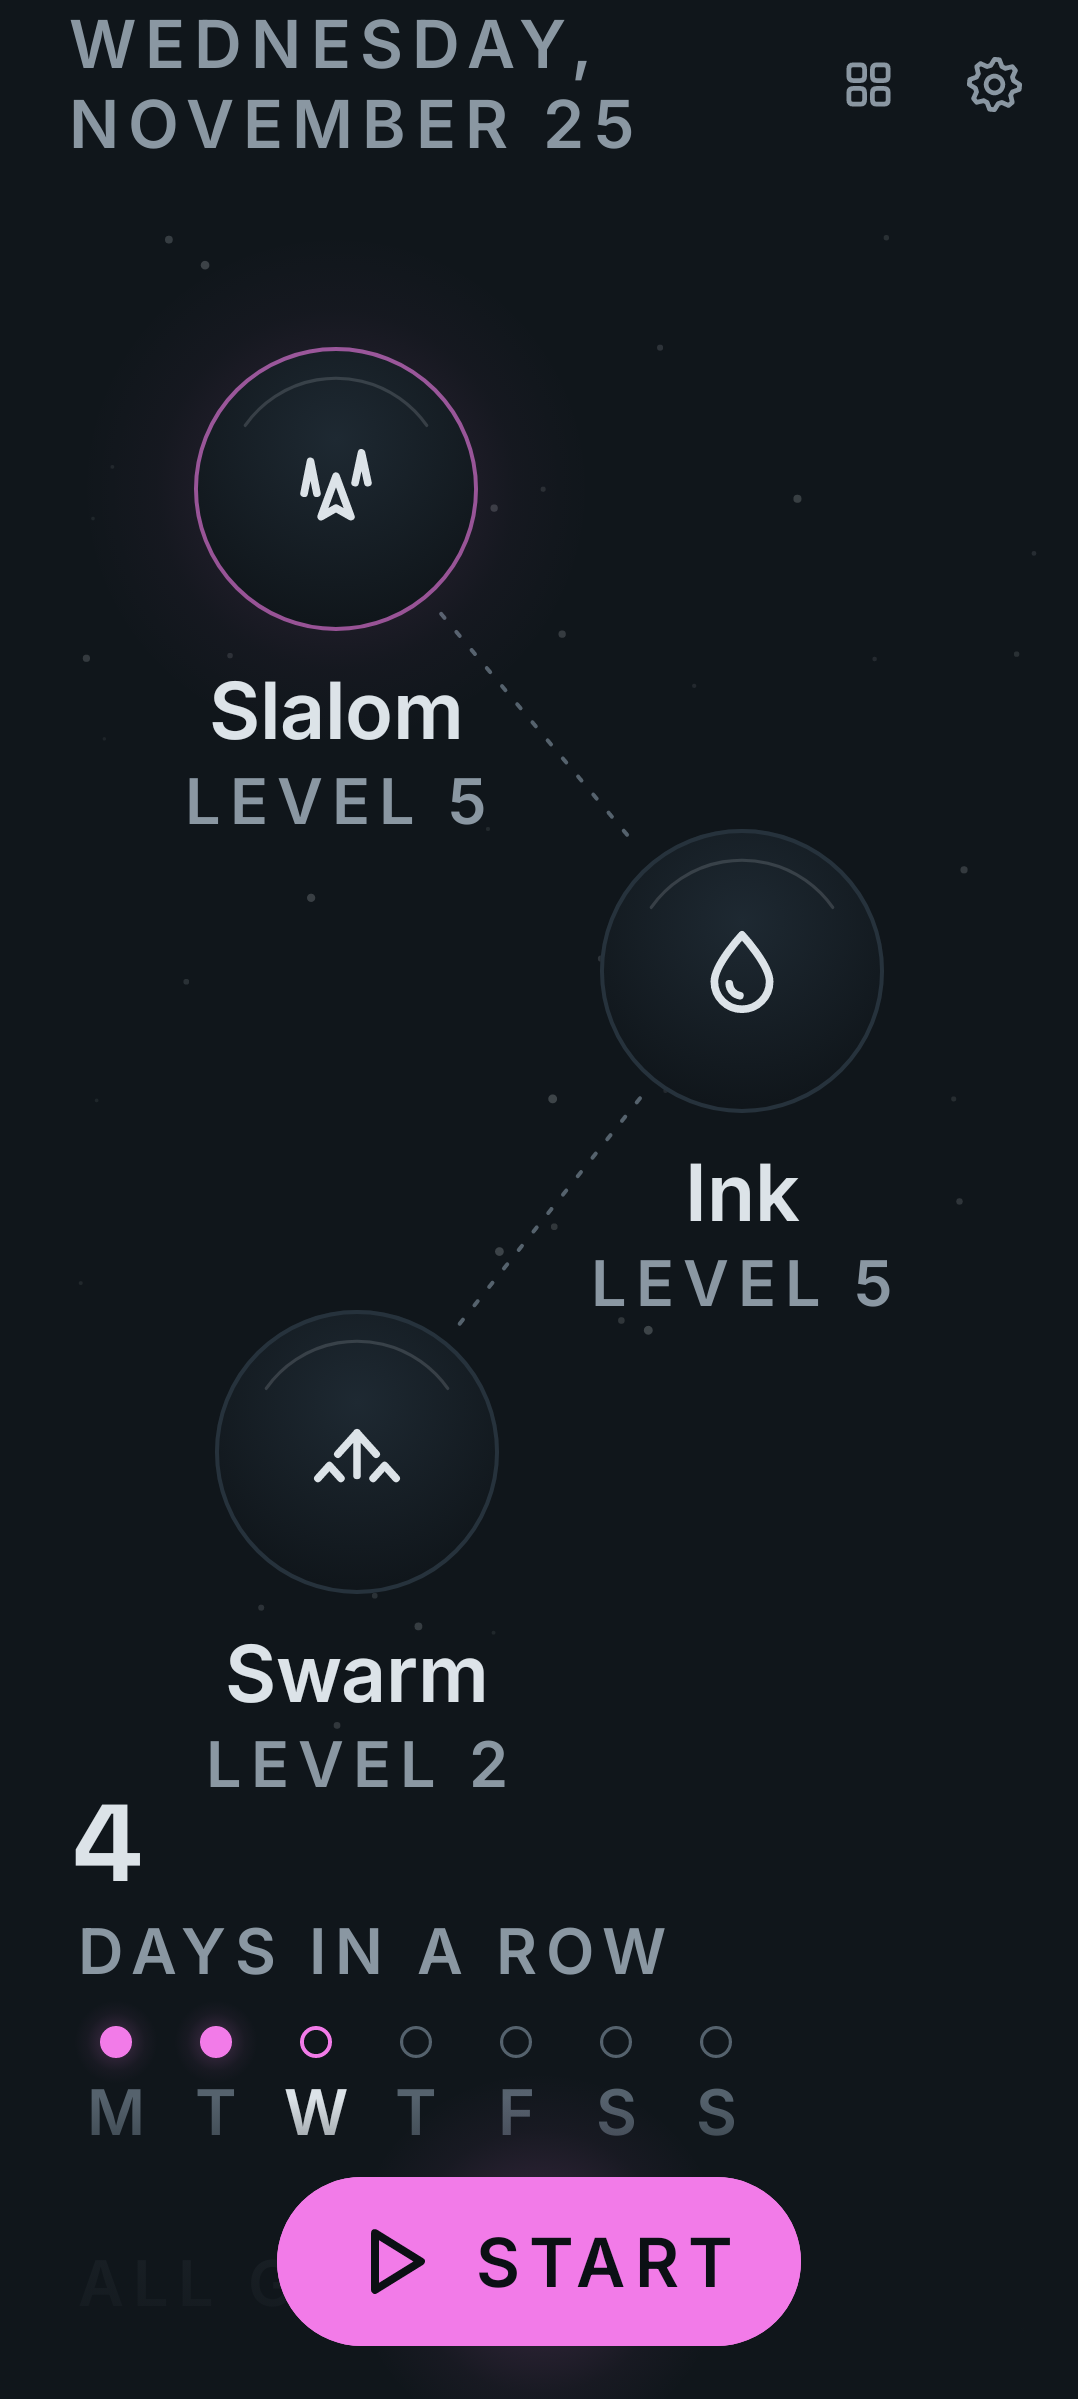
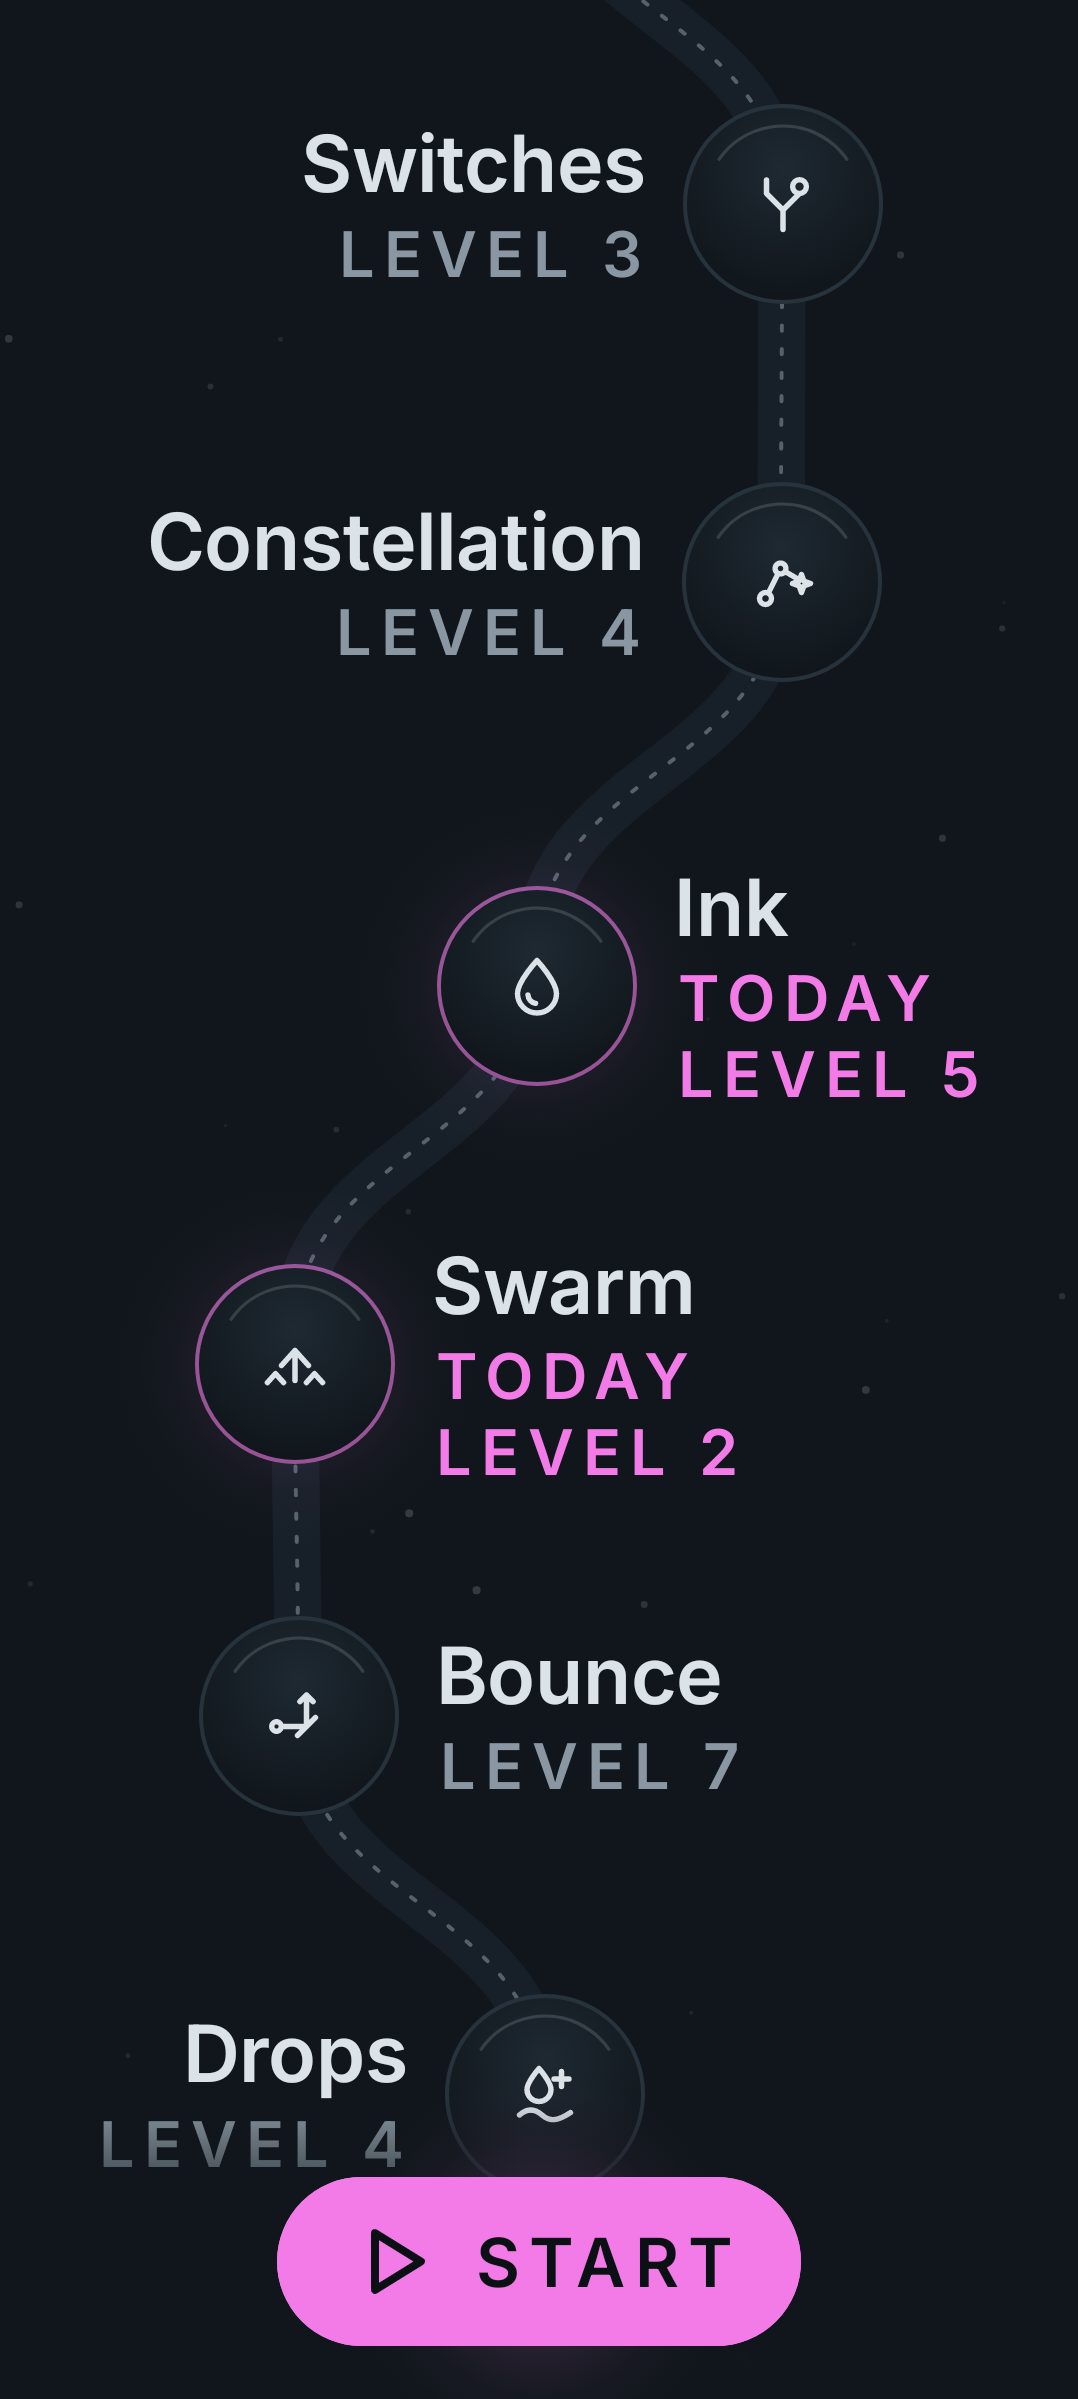
thinkr: Home nur Lernpfad, Heute-Kreise entfernt

diff --git a/apps/thinkr/src/main/kotlin/solutions/xapient/thinkr/ui/HomeScreen.kt b/apps/thinkr/src/main/kotlin/solutions/xapient/thinkr/ui/HomeScreen.kt
@@ -21,17 +21,21 @@ import androidx.compose.foundation.layout.padding
 import androidx.compose.foundation.layout.size
 import androidx.compose.foundation.layout.width
 import androidx.compose.foundation.layout.widthIn
-import androidx.compose.foundation.ScrollState
 import androidx.compose.foundation.rememberScrollState
 import androidx.compose.foundation.verticalScroll
 import androidx.compose.foundation.shape.CircleShape
 import androidx.compose.foundation.text.BasicText
 import androidx.compose.runtime.Composable
+import androidx.compose.runtime.LaunchedEffect
 import androidx.compose.runtime.getValue
+import androidx.compose.runtime.mutableStateOf
+import androidx.compose.runtime.setValue
 import androidx.compose.runtime.remember
 import androidx.compose.ui.Alignment
 import androidx.compose.ui.Modifier
 import androidx.compose.ui.geometry.Offset
+import androidx.compose.ui.layout.onPlaced
+import androidx.compose.ui.layout.positionInParent
 import androidx.compose.ui.graphics.Brush
 import androidx.compose.ui.graphics.Path
 import androidx.compose.ui.graphics.PathEffect
@@ -50,9 +54,7 @@ import androidx.compose.ui.text.rememberTextMeasurer
 import androidx.compose.ui.text.style.TextAlign
 import androidx.compose.ui.text.style.TextOverflow
 import androidx.compose.ui.unit.Dp
-import androidx.compose.ui.unit.IntOffset
 import androidx.compose.ui.unit.dp
-import androidx.compose.ui.unit.min
 import androidx.compose.ui.unit.sp
 import solutions.xapient.aapps.core.ui.Aapps
 import solutions.xapient.aapps.core.ui.AappsIcon
@@ -71,13 +73,10 @@ import java.time.format.TextStyle
 import kotlin.math.sin
 import kotlin.random.Random
 
-data class DailyItem(val id: GameId, val name: String, val icon: ImageVector, val level: Int, val done: Boolean)
-
-// Heute: Tagesbild als Hero, darunter Serie und Woche, beim Scrollen alle Spiele als Pfad; unten die eine Hauptaktion
+// Start: Kopf mit Datum, Serie und Woche, darunter alle Spiele als Lernpfad; oeffnet bei der naechsten Einheit von heute
 @Composable
 fun HomeScreen(
     today: Int,
-    items: List<DailyItem>,
     games: List<GameItem>,
     streak: Int,
     week: List<Boolean>,
@@ -85,18 +84,17 @@ fun HomeScreen(
     onPlay: (GameId) -> Unit,
     onGames: () -> Unit,
     onSettings: () -> Unit,
-    scroll: ScrollState = rememberScrollState(),
 ) {
     val c = Aapps.colors
-    val next = items.firstOrNull { !it.done }
-    val allDone = items.isNotEmpty() && next == null
+    val next = games.firstOrNull { it.daily && !it.doneToday }
+    val allDone = games.any { it.daily } && next == null
     val landscape = LocalWindowInfo.current.containerSize.let { it.width > it.height }
     val action: @Composable () -> Unit = {
         AappsPillButton(
             stringResource(
                 when {
                     allDone -> R.string.done_today
-                    items.any { it.done } -> R.string.go_on
+                    games.any { it.doneToday } -> R.string.go_on
                     else -> R.string.start
                 },
             ),
@@ -108,9 +106,21 @@ fun HomeScreen(
         )
     }
     val play: (GameId) -> Unit = { haptics?.press(); onPlay(it) }
+    // beim Oeffnen zur naechsten offenen (sonst ersten) Einheit von heute scrollen
+    val scroll = rememberScrollState()
+    val focus = games.indexOf(next ?: games.firstOrNull { it.daily })
+    var pathTop by remember { mutableStateOf<Float?>(null) }
+    val fs = LocalDensity.current.fontScale.coerceIn(1f, 2f)
+    val density = LocalDensity.current
     AappsScaffold {
         BoxWithConstraints(Modifier.fillMaxSize()) {
             val viewH = maxHeight
+            LaunchedEffect(pathTop) {
+                val top = pathTop ?: return@LaunchedEffect
+                if (focus < 0) return@LaunchedEffect
+                scroll.scrollTo(with(density) { (top + (pathNodeY(focus, fs) - viewH * 0.4f).toPx()).toInt().coerceAtLeast(0) })
+            }
+            val path = Modifier.onPlaced { pathTop = it.positionInParent().y }
             if (landscape) {
                 Row(Modifier.fillMaxSize()) {
                     Column(Modifier.weight(0.42f).fillMaxHeight().padding(start = 12.dp, bottom = 16.dp)) {
@@ -121,22 +131,15 @@ fun HomeScreen(
                         Box(Modifier.padding(start = 8.dp)) { action() }
                     }
                     Column(Modifier.weight(0.58f).fillMaxHeight().verticalScroll(scroll)) {
-                        // Pfadtitel lugt unten hervor: zeigt, dass es weitergeht
-                        Constellation(items, next?.id, play, Modifier.fillMaxWidth().height(viewH - 44.dp).padding(12.dp))
-                        PathTitle()
-                        GamePath(games, play, Modifier.padding(bottom = 24.dp))
+                        GamePath(games, play, path.padding(bottom = 24.dp))
                     }
                 }
             } else {
-                // Hero wie bisher, nur so viel kuerzer, dass der Pfad ueber der Pille hervorlugt
-                val heroH = (viewH - 64.dp - 76.dp - 98.dp - 64.dp).coerceAtLeast(300.dp)
                 Column(Modifier.fillMaxSize().verticalScroll(scroll)) {
                     Box(Modifier.padding(start = 12.dp)) { Header(today, onGames, onSettings) }
-                    Constellation(items, next?.id, play, Modifier.fillMaxWidth().height(heroH).padding(horizontal = 12.dp))
+                    Spacer(Modifier.height(12.dp))
                     StreakRow(streak, week, today, Modifier.padding(horizontal = 28.dp))
-                    Spacer(Modifier.height(36.dp))
-                    PathTitle()
-                    GamePath(games, play, Modifier.padding(bottom = 112.dp))
+                    GamePath(games, play, path.padding(bottom = 112.dp))
                 }
                 // Pille schwebt ueber dem Pfad, weicher Uebergang statt harter Kante
                 Box(
@@ -168,105 +171,6 @@ private fun Header(today: Int, onGames: () -> Unit, onSettings: () -> Unit) {
         )
         AappsIconButton(ThinkrIcons.Games, stringResource(R.string.games), onGames)
         AappsIconButton(AappsIcons.Gear, stringResource(solutions.xapient.aapps.core.ui.R.string.aapps_settings), onSettings)
-    }
-}
-
-// Lage der Kugeln im Hero, normiert; Hochformat im Zickzack, Querformat als flacher Bogen
-private fun spots(n: Int, wide: Boolean): List<Offset> = when (n) {
-    0 -> emptyList()
-    1 -> listOf(Offset(0.5f, 0.47f))
-    2 -> if (wide) listOf(Offset(0.3f, 0.42f), Offset(0.7f, 0.58f)) else listOf(Offset(0.33f, 0.3f), Offset(0.67f, 0.7f))
-    else -> if (wide) {
-        listOf(Offset(0.18f, 0.36f), Offset(0.5f, 0.64f), Offset(0.82f, 0.38f))
-    } else {
-        listOf(Offset(0.3f, 0.2f), Offset(0.7f, 0.5f), Offset(0.32f, 0.8f))
-    }
-}
-
-// Tagesbild: Spiele als Lichtkugeln, verbunden zu einem kleinen Sternbild
-@Composable
-private fun Constellation(items: List<DailyItem>, next: GameId?, onPlay: (GameId) -> Unit, modifier: Modifier) {
-    val c = Aapps.colors
-    BoxWithConstraints(modifier) {
-        val wide = maxWidth > maxHeight * 1.15f
-        val pts = spots(items.size, wide)
-        val k = when (items.size) {
-            1 -> 0.46f
-            2 -> 0.34f
-            else -> 0.28f
-        }
-        val orb = min(min(maxWidth, maxHeight) * k, 168.dp).coerceAtLeast(84.dp)
-        val density = LocalDensity.current
-        val orbPx = with(density) { orb.toPx() }
-        // ruhiger Sternenstaub, fest per Seed: kein Flimmern, keine Animation
-        val dust = remember { Random(23).let { r -> List(46) { Triple(r.nextFloat(), r.nextFloat(), r.nextFloat()) } } }
-        Canvas(Modifier.fillMaxSize()) {
-            dust.forEach { (x, y, a) ->
-                drawCircle(c.fg.copy(alpha = 0.06f + 0.16f * a), (0.6f + 1.1f * a).dp.toPx(), Offset(x * size.width, y * size.height))
-            }
-            val centers = pts.map { Offset(it.x * size.width, it.y * size.height) }
-            centers.zipWithNext().forEachIndexed { i, (a, b) ->
-                val lit = items[i].done && items[i + 1].done
-                val d = b - a
-                val len = d.getDistance()
-                if (len <= orbPx) return@forEachIndexed
-                val u = d / len
-                val gap = orbPx / 2 + 8.dp.toPx()
-                val p0 = a + u * gap
-                val p1 = b - u * gap
-                if (lit) {
-                    drawLine(c.accent.copy(alpha = 0.25f), p0, p1, 8.dp.toPx(), StrokeCap.Round)
-                    drawLine(c.accent, p0, p1, 2.dp.toPx(), StrokeCap.Round)
-                } else {
-                    drawLine(
-                        c.fgFaint, p0, p1, 1.5.dp.toPx(), StrokeCap.Round,
-                        pathEffect = PathEffect.dashPathEffect(floatArrayOf(2.dp.toPx(), 7.dp.toPx())),
-                    )
-                }
-            }
-        }
-        val colW = orb * 1.7f
-        items.forEachIndexed { i, item ->
-            val p = pts[i]
-            Orb(
-                item, item.id == next, orb, { onPlay(item.id) },
-                Modifier
-                    .width(colW)
-                    .offset {
-                        IntOffset(
-                            (p.x * constraints.maxWidth - colW.toPx() / 2).toInt(),
-                            (p.y * constraints.maxHeight - orbPx / 2).toInt(),
-                        )
-                    },
-            )
-        }
-    }
-}
-
-@Composable
-private fun Orb(item: DailyItem, isNext: Boolean, size: Dp, onClick: () -> Unit, modifier: Modifier) {
-    val c = Aapps.colors
-    val source = remember { MutableInteractionSource() }
-    val pressed by source.collectIsPressedAsState()
-    val desc = stringResource(if (item.done) R.string.orb_done else R.string.orb_open, item.name, item.level)
-    Column(
-        modifier
-            .semantics(mergeDescendants = true) { contentDescription = desc }
-            .clickable(source, indication = null, role = Role.Button, onClick = onClick),
-        horizontalAlignment = Alignment.CenterHorizontally,
-    ) {
-        OrbFace(item.icon, item.done, isNext, size, Modifier.pressScale(pressed, 0.94f))
-        Spacer(Modifier.height(12.dp))
-        BasicText(
-            item.name, style = Aapps.type.title.copy(color = c.fg, textAlign = TextAlign.Center),
-            maxLines = 1, overflow = TextOverflow.Ellipsis,
-        )
-        Spacer(Modifier.height(2.dp))
-        BasicText(
-            stringResource(R.string.level_n, item.level).uppercase(),
-            style = Aapps.type.label.copy(color = if (item.done) c.accent else c.fgMuted, textAlign = TextAlign.Center),
-            maxLines = 1,
-        )
     }
 }
 
@@ -316,33 +220,30 @@ private fun OrbFace(icon: ImageVector, done: Boolean, lit: Boolean, size: Dp, mo
     }
 }
 
-@Composable
-private fun PathTitle() {
-    val c = Aapps.colors
-    BasicText(
-        stringResource(R.string.all_games).uppercase(),
-        Modifier.fillMaxWidth().padding(horizontal = 28.dp),
-        style = Aapps.type.label.copy(color = c.fgMuted),
-    )
-}
-
 // Waagrechte Lage der Stationen: sanfte S-Kurve Mitte, rechts, rechts, Mitte, links, links ...
 private fun pathX(i: Int): Float = 0.5f + 0.26f * sin(i * 1.05f)
+
+private val PATH_NODE = 76.dp
+private val PATH_TOP = 40.dp
+private fun pathStep(fs: Float): Dp = 116.dp + 28.dp * (fs - 1f)
+
+// Mitte der Station i, gemessen ab Oberkante des Pfads
+private fun pathNodeY(i: Int, fs: Float): Dp = PATH_TOP + PATH_NODE / 2 + pathStep(fs) * i
 
 // Alle Spiele als geschwungener Pfad; Tipp startet frei
 @Composable
 private fun GamePath(games: List<GameItem>, onPlay: (GameId) -> Unit, modifier: Modifier) {
     val c = Aapps.colors
     val fs = LocalDensity.current.fontScale.coerceIn(1f, 2f)
-    val node = 76.dp
-    val step = 116.dp + 28.dp * (fs - 1f)
-    val top = 40.dp
-    // eigener Sternenstaub, gleich ruhig wie im Hero
+    val node = PATH_NODE
+    val step = pathStep(fs)
+    val top = PATH_TOP
+    // ruhiger Sternenstaub, fest per Seed: kein Flimmern, keine Animation
     val dust = remember { Random(41).let { r -> List(40) { Triple(r.nextFloat(), r.nextFloat(), r.nextFloat()) } } }
     BoxWithConstraints(modifier.fillMaxWidth().height(top * 2 + step * (games.size - 1).coerceAtLeast(0) + node)) {
         val w = maxWidth
         val cx = { i: Int -> w * pathX(i) }
-        val cy = { i: Int -> top + node / 2 + step * i }
+        val cy = { i: Int -> pathNodeY(i, fs) }
         Canvas(Modifier.fillMaxSize()) {
             dust.forEach { (x, y, a) ->
                 drawCircle(c.fg.copy(alpha = 0.05f + 0.13f * a), (0.6f + 1.0f * a).dp.toPx(), Offset(x * size.width, y * size.height))

diff --git a/apps/thinkr/src/test/kotlin/solutions/xapient/thinkr/screenshots/ThinkrScreenshotTest.kt b/apps/thinkr/src/test/kotlin/solutions/xapient/thinkr/screenshots/ThinkrScreenshotTest.kt
@@ -1,8 +1,6 @@
 package solutions.xapient.thinkr.screenshots
 
-import androidx.compose.foundation.ScrollState
 import androidx.compose.runtime.Composable
-import androidx.compose.runtime.remember
 import androidx.compose.ui.res.stringResource
 import com.github.takahirom.roborazzi.RobolectricDeviceQualifiers
 import com.github.takahirom.roborazzi.RoborazziOptions
@@ -19,7 +17,6 @@ import solutions.xapient.thinkr.R
 import solutions.xapient.thinkr.domain.Daily
 import solutions.xapient.thinkr.domain.echo.EchoGame
 import solutions.xapient.thinkr.domain.echo.EchoState
-import solutions.xapient.thinkr.ui.DailyItem
 import solutions.xapient.thinkr.ui.GameItem
 import solutions.xapient.thinkr.ui.GamesScreen
 import solutions.xapient.thinkr.ui.HomeScreen
@@ -56,14 +53,10 @@ class ThinkrScreenshotTest {
     private val weekDone = listOf(true, true, true, false, false, false, false)
     private val levels = listOf(6, 3, 4, 5, 2, 7, 4, 3, 5)
 
-    // Tagesbild aus der echten Auswahl fuer heute (drei der fuenf Spiele); done = wie viele schon erledigt
+    // Lernpfad mit der echten Tagesauswahl; done = wie viele davon schon erledigt
     @Composable
-    private fun Home(done: Int = 0, scroll: Int = 0) = HomeScreen(
+    private fun Home(done: Int = 0) = HomeScreen(
         today = today,
-        items = Daily.pick(today, Games.ids).mapIndexed { i, id ->
-            val def = Games.of(id)!!
-            DailyItem(id, stringResource(def.name), def.icon, levels[Games.ids.indexOf(id)], i < done)
-        },
         games = Games.all.mapIndexed { i, def ->
             val pick = Daily.pick(today, Games.ids)
             val daily = def.id in pick
@@ -72,7 +65,6 @@ class ThinkrScreenshotTest {
         streak = if (done == 3) 5 else 4,
         week = if (done == 3) weekDone else week,
         haptics = null, onPlay = {}, onGames = {}, onSettings = {},
-        scroll = remember { ScrollState(scroll) },
     )
 
     @Test fun home() = shot("home") { Home() }
@@ -83,13 +75,6 @@ class ThinkrScreenshotTest {
     @Test fun home_partly() = shot("home_partly") { Home(done = 1) }
     @Test fun home_partly_land() = shot("home_partly_land", "+land") { Home(done = 2) }
     @Test fun home_done() = shot("home_done") { Home(done = 3) }
-
-    // Lernpfad: Startseite gescrollt (Pixel 7: 2,625 px je dp); mitte = Uebergang Hero -> Pfad, ende = letzte Stationen
-    @Test fun home_path() = shot("home_path") { Home(done = 1, scroll = 1700) }
-    @Test fun home_path_end() = shot("home_path_end") { Home(done = 1, scroll = Int.MAX_VALUE) }
-    @Test fun home_path_de() = shot("home_path_de", "+de") { Home(done = 2, scroll = 1700) }
-    @Test fun home_path_font200() = shot("home_path_font200", fontScale = 2f) { Home(done = 1, scroll = 2600) }
-    @Test fun home_path_land() = shot("home_path_land", "+land") { Home(done = 1, scroll = 900) }
 
     @Composable
     private fun GamesList() = GamesScreen(

diff --git a/apps/thinkr/src/main/kotlin/solutions/xapient/thinkr/ThinkrApp.kt b/apps/thinkr/src/main/kotlin/solutions/xapient/thinkr/ThinkrApp.kt
@@ -23,7 +23,6 @@ import solutions.xapient.thinkr.domain.GameId
 import solutions.xapient.thinkr.domain.Play
 import solutions.xapient.thinkr.domain.RoundResult
 import solutions.xapient.thinkr.domain.Streak
-import solutions.xapient.thinkr.ui.DailyItem
 import solutions.xapient.thinkr.ui.GameItem
 import solutions.xapient.thinkr.ui.GamesScreen
 import solutions.xapient.thinkr.ui.HomeScreen
@@ -125,9 +124,6 @@ fun ThinkrApp(clock: () -> LocalDate = LocalDate::now) {
         when (shown) {
             Screen.HOME -> HomeScreen(
                 today = today,
-                items = daily.mapNotNull { id ->
-                    Games.of(id)?.let { DailyItem(id, stringResource(it.name), it.icon, journal.progress(id, relaxed).level, id in done) }
-                },
                 games = gameItems,
                 streak = Streak.count(journal.dailyDone, today),
                 week = Streak.week(journal.dailyDone, today),

diff --git a/apps/thinkr/SPEC.md b/apps/thinkr/SPEC.md
@@ -112,7 +112,7 @@ Erster Release: 5 Spiele (Echo, Weichen, Sternbild, Tinte, Schwarm), die übrige
 - Punkte: je sauber passierter Reihe 10 × Tempo-Faktor × Multiplikator; knapp ausgewichen (gesperrte Nachbarspur, Wechsel in den letzten 0,7 s) +15 und `tick()`. Ereignisse (Durchfahrten, Tempostufen, neue Reihen) laufen streng nach Zeit.
 
 ## Screens
-1. **Heute**: Datum, oben Spiele und Zahnrad. Hero: Tagesbild aus bis zu 3 Lichtkugeln (Spielsymbol, Name, Stufe), verbunden durch Linien, erledigt = Akzent mit Haken. Darunter Serie und Woche Mo–So. Pille „Start" / „Weiter" / „Fertig für heute".
+1. **Heute**: Datum, oben Spiele und Zahnrad. Darunter Serie und Woche Mo–So, dann alle Spiele als Lernpfad; Tagesspiele leuchten mit „Heute“, erledigt = Akzent mit Haken. Beim Öffnen scrollt der Pfad zur nächsten offenen Tageseinheit. Pille „Start" / „Weiter" / „Fertig für heute".
 2. **Spiele**: alle Spiele mit Stufe und Bestwert, Tipp startet.
 3. **Spiel**: Zeitleiste, Punkte, Multiplikator mit 4 Punkten, Pause.
 4. **Ergebnis**: Punkte groß, Stufe mit Pfeil, Treffer in %, Bestwert, „Neuer Bestwert" mit einmaligem Glanz, „Tagestraining erledigt". Pille „Weiter" (nächstes Tagesspiel) bzw. „Nochmal", Text-Knopf „Fertig".
@@ -128,7 +128,7 @@ Verlauf-Screen kommt in einer späteren Phase. Tagestraining und Listen enthalte
 ## Screenshot-Zustände (`apps/thinkr/screenshots/`)
 | Name | Inhalt |
 |---|---|
-| `home` | Tagesbild mit den drei echten Tagesspielen, nichts erledigt, Serie 4 |
+| `home` | Lernpfad mit den drei echten Tagesspielen, nichts erledigt, Serie 4 |
 | `home_partly` | eines erledigt (`home_partly_land`: zwei) |
 | `home_done` | alles erledigt, Pille „Fertig für heute" |
 | `games` | Spieleliste |
